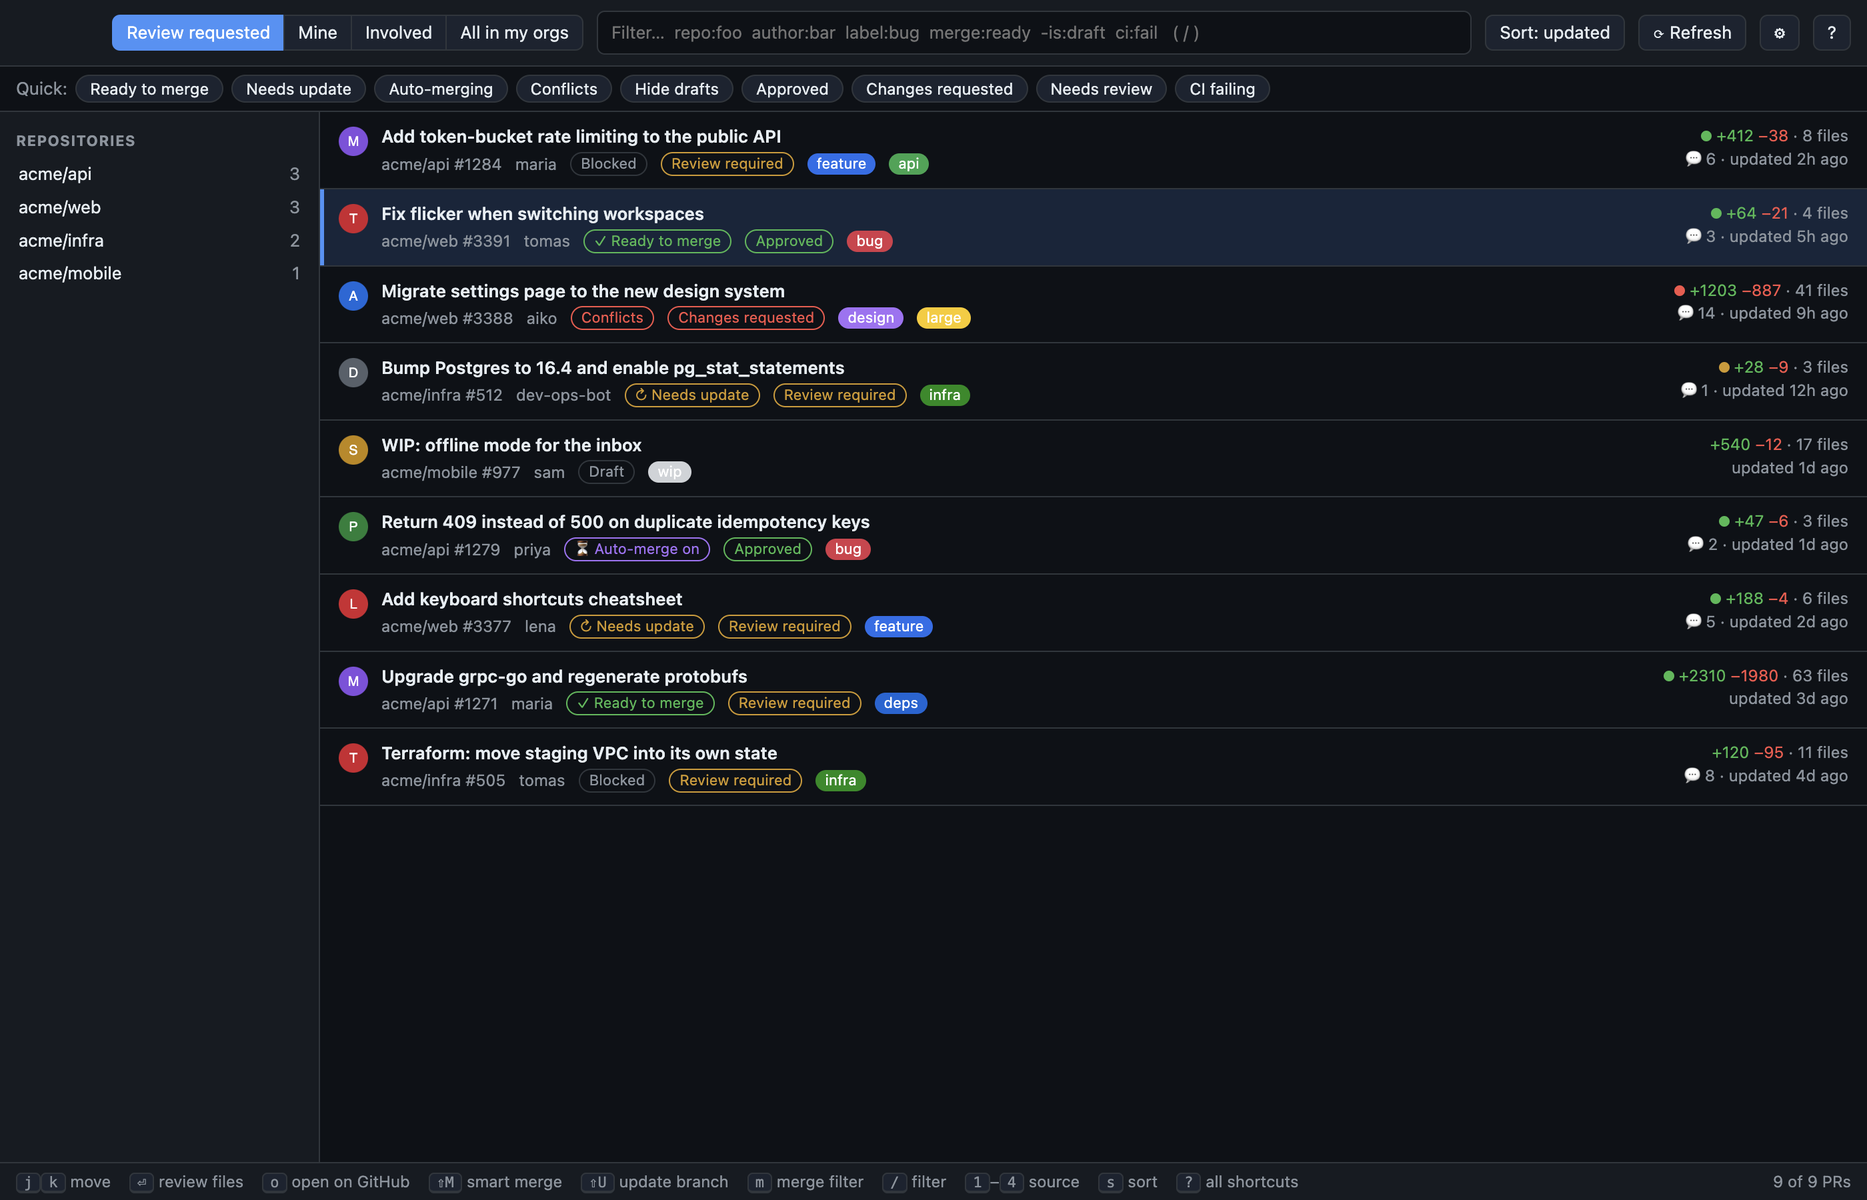
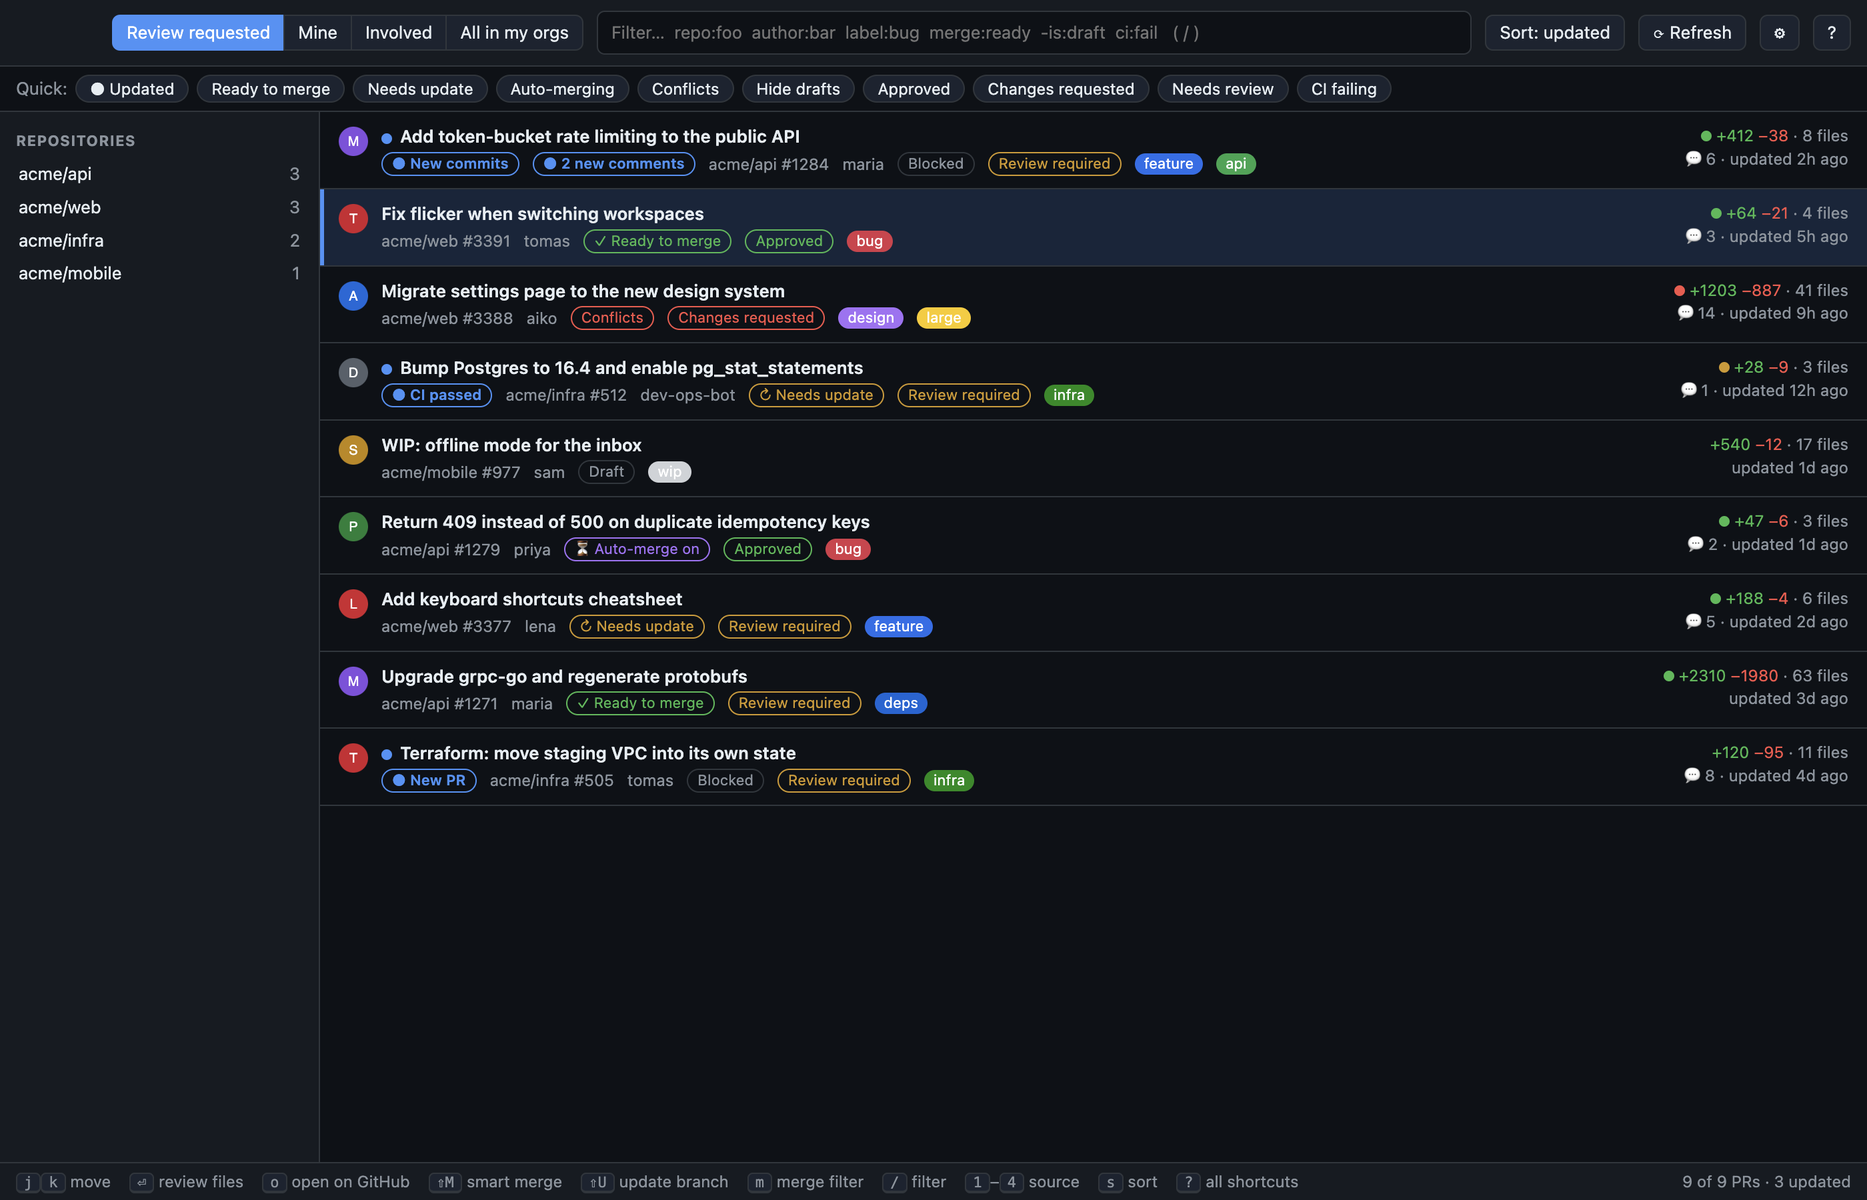
Background refresh, change markers and desktop notifications

diff --git a/src/app.js b/src/app.js
@@ -6,6 +6,7 @@ const lset = (k, v) => { try { localStorage.setItem('sp.' + k, JSON.stringify(v)
 if (native.platform === 'darwin') document.body.classList.add('mac');
 
 const S = {
+  loadSeq: 0,
   drawer: { open: false, tab: 'conv', sel: 0 },
   hideTests: ls('hideTests', true),
   token: null, view: 'login', prs: [], sel: 0, loading: false,
@@ -15,7 +16,7 @@ const S = {
 };
 const SOURCES = [['review', 'Review requested'], ['mine', 'Mine'], ['involved', 'Involved'], ['orgs', 'All in my orgs']];
 const SORTS = ['updated', 'created', 'size', 'repo'];
-const CHIPS = [['merge:ready', 'Ready to merge'], ['merge:behind', 'Needs update'], ['merge:auto', 'Auto-merging'], ['merge:conflict', 'Conflicts'], ['-is:draft', 'Hide drafts'], ['is:approved', 'Approved'], ['is:changes', 'Changes requested'], ['is:unreviewed', 'Needs review'], ['ci:fail', 'CI failing']];
+const CHIPS = [['is:updated', '● Updated'], ['merge:ready', 'Ready to merge'], ['merge:behind', 'Needs update'], ['merge:auto', 'Auto-merging'], ['merge:conflict', 'Conflicts'], ['-is:draft', 'Hide drafts'], ['is:approved', 'Approved'], ['is:changes', 'Changes requested'], ['is:unreviewed', 'Needs review'], ['ci:fail', 'CI failing']];
 
 /* ---------- helpers ---------- */
 let toastT;
@@ -46,7 +47,7 @@ async function rest(path) {
 }
 
 /* ---------- data: PR list ---------- */
-const PR_FIELDS = `id number title bodyText url isDraft mergeable mergeStateStatus autoMergeRequest { enabledAt } createdAt updatedAt additions deletions changedFiles reviewDecision
+const PR_FIELDS = `id number title bodyText url isDraft headRefOid mergeable mergeStateStatus autoMergeRequest { enabledAt } reviews { totalCount } reviewThreads { totalCount } createdAt updatedAt additions deletions changedFiles reviewDecision
   author { login avatarUrl(size: 44) } repository { nameWithOwner }
   labels(first: 5) { nodes { name color } } comments { totalCount }
   commits(last: 1) { nodes { commit { statusCheckRollup { state } } } }`;
@@ -70,15 +71,66 @@ async function queriesFor(source) {
   const d = await gql('{ viewer { login organizations(first:50){nodes{login}} } }');
   return [`${base} user:${d.viewer.login}`, ...d.viewer.organizations.nodes.map((o) => `${base} org:${o.login}`)];
 }
-async function loadPRs() {
-  if (S.token === 'demo') { S.prs = DEMO.prs; S.loading = false; return updateList(); }
-  S.loading = true; updateList();
+/* ---------- change tracking, background refresh, notifications ---------- */
+const pollCfg = () => ({ notify: true, secs: 60, ...ls('poll', {}) });
+const snap = (p) => ({ oid: p.headRefOid, act: p.comments.totalCount + (p.reviews?.totalCount || 0) + (p.reviewThreads?.totalCount || 0), rd: p.reviewDecision || '', ci: ci(p) || '', mk: mergeKind(p) || '' });
+// Compares each PR with what you last looked at (you "look" by opening it). Returns true when this source was only just baselined.
+function computeChanges(prs, source) {
+  const seen = ls('seen', {}), base = ls('baselined', []);
+  if (!base.includes(source)) { prs.forEach((p) => { seen[p.id] = snap(p); p._chg = []; }); lset('seen', seen); lset('baselined', [...base, source]); return true; }
+  for (const p of prs) {
+    const o = seen[p.id], n = snap(p), c = [];
+    if (!o) c.push('New PR');
+    else {
+      if (n.oid !== o.oid) c.push('New commits');
+      if (n.act > o.act) c.push(`${n.act - o.act} new comment${n.act - o.act > 1 ? 's' : ''}`);
+      if (n.rd !== o.rd && n.rd) c.push({ APPROVED: 'Approved', CHANGES_REQUESTED: 'Changes requested', REVIEW_REQUIRED: 'Review required' }[n.rd]);
+      if (n.ci !== o.ci && ['SUCCESS', 'FAILURE', 'ERROR'].includes(n.ci)) c.push(n.ci === 'SUCCESS' ? 'CI passed' : 'CI failed');
+      if (n.mk !== o.mk && n.mk === 'ready' && o.mk) c.push('Ready to merge');
+    }
+    p._chg = c;
+  }
+  return false;
+}
+function markSeen(prs) {
+  const seen = ls('seen', {}); prs.forEach((p) => { seen[p.id] = snap(p); p._chg = []; }); lset('seen', seen); updateBadge();
+}
+const notified = new Map(); // pr id -> signature we already told you about
+const sigOf = (p) => JSON.stringify([snap(p), p._chg]);
+function primeNotified(prs) { prs.forEach((p) => { if (p._chg?.length) notified.set(p.id, sigOf(p)); }); }
+function notifyChanges(prs) {
+  const fresh = prs.filter((p) => p._chg?.length && notified.get(p.id) !== sigOf(p));
+  fresh.forEach((p) => notified.set(p.id, sigOf(p)));
+  if (!fresh.length || !pollCfg().notify || document.hasFocus() || !window.Notification) return;
+  const go = (p) => () => { native.focusWindow(); if (p) openPR(p); };
+  const show = (title, body, p) => { try { const n = new Notification(title, { body }); n.onclick = go(p); } catch {} };
+  if (fresh.length <= 3) fresh.forEach((p) => show(`${p.repository.nameWithOwner} #${p.number}`, `${p.title}\n${p._chg.join(' · ')}`, p));
+  else show(`${fresh.length} pull requests updated`, fresh.slice(0, 4).map((p) => `#${p.number} ${p._chg[0]}`).join('\n'), null);
+}
+function updateBadge() {
+  const n = S.prs.filter((p) => p._chg?.length).length;
+  document.title = n ? `LGTM (${n})` : 'LGTM'; native.setBadge(n);
+}
+let pollT;
+function schedulePoll() {
+  clearTimeout(pollT);
+  pollT = setTimeout(async () => { if (S.token && S.token !== 'demo' && S.view !== 'login' && !S.loading && !merging) await loadPRs(true); schedulePoll(); }, Math.max(15, pollCfg().secs) * 1000);
+}
+addEventListener('focus', () => { if (S.token && S.token !== 'demo' && S.view !== 'login' && !S.loading && Date.now() - (S.lastLoad || 0) > 20000) loadPRs(true); });
+
+async function loadPRs(silent) {
+  if (S.token === 'demo') { S.prs = DEMO.prs; S.loading = false; updateBadge(); return updateList(); }
+  const mine = ++S.loadSeq, src = S.source;
+  if (!silent) { S.loading = true; updateList(); }
   try {
-    const qs = await queriesFor(S.source);
-    const all = (await Promise.all(qs.map(searchPRs))).flat();
-    S.prs = [...new Map(all.map((p) => [p.id, p])).values()];
-  } catch (e) { toast('Load failed: ' + e.message); }
-  S.loading = false; updateList();
+    const qs = await queriesFor(src);
+    const prs = [...new Map((await Promise.all(qs.map(searchPRs))).flat().map((p) => [p.id, p])).values()];
+    if (mine !== S.loadSeq) return;
+    const baseline = computeChanges(prs, src);
+    S.keepId = S.shown[S.sel]?.id; S.prs = prs; S.lastLoad = Date.now();
+    if (silent && !baseline) notifyChanges(prs); else primeNotified(prs);
+  } catch (e) { if (!silent) toast('Load failed: ' + e.message); }
+  finally { if (mine === S.loadSeq) { S.loading = false; updateList(); updateBadge(); } }
 }
 
 /* ---------- list filtering ---------- */
@@ -109,6 +161,7 @@ function matches(p, terms) {
     else if (key === 'author') ok = (p.author?.login || '').toLowerCase().includes(val);
     else if (key === 'label') ok = p.labels.nodes.some((l) => l.name.toLowerCase().includes(val));
     else if (key === 'ci') ok = { fail: ['FAILURE', 'ERROR'], pass: ['SUCCESS'], pending: ['PENDING', 'EXPECTED'] }[val]?.includes(ci(p)) ?? false;
+    else if (key === 'is' && val === 'updated') ok = !!p._chg?.length;
     else if (key === 'merge') ok = mergeKind(p) === val;
     else if (key === 'is') ok = { draft: p.isDraft, ready: !p.isDraft, approved: p.reviewDecision === 'APPROVED', changes: p.reviewDecision === 'CHANGES_REQUESTED', unreviewed: p.reviewDecision === 'REVIEW_REQUIRED' || !p.reviewDecision }[val] ?? false;
     else ok = hay.includes(val);
@@ -165,6 +218,7 @@ function updateList() {
   if (S.view !== 'list' || !$('#prs')) return;
   const terms = parseQuery(S.q);
   S.shown = S.prs.filter((p) => matches(p, terms)).sort(SORT_FN[S.sort]);
+  if (S.keepId) { const i = S.shown.findIndex((p) => p.id === S.keepId); if (i >= 0) S.sel = i; S.keepId = null; }
   S.sel = Math.max(0, Math.min(S.sel, S.shown.length - 1));
   document.querySelectorAll('[data-src]').forEach((b) => b.classList.toggle('on', b.dataset.src === S.source));
   $('#sortb').textContent = 'Sort: ' + S.sort;
@@ -179,7 +233,8 @@ function updateList() {
   if (S.loading && !S.prs.length) main.innerHTML = '<div class="spin">Loading pull requests…</div>';
   else if (!S.shown.length) main.innerHTML = `<div class="empty">${S.prs.length ? 'No PRs match this filter.' : 'No open PRs here 🎉'}</div>`;
   else main.innerHTML = S.shown.map(prRow).join('');
-  $('#count').textContent = `${S.shown.length} of ${S.prs.length} PRs${S.loading ? ' · refreshing…' : ''}`;
+  const nUpd = S.prs.filter((p) => p._chg?.length).length;
+  $('#count').textContent = `${S.shown.length} of ${S.prs.length} PRs${nUpd ? ` · ${nUpd} updated` : ''}${S.loading ? ' · refreshing…' : ''}`;
   main.querySelector('.sel')?.scrollIntoView({ block: 'nearest' });
 }
 function prRow(p, i) {
@@ -187,8 +242,8 @@ function prRow(p, i) {
   const st = ci(p); const dot = st === 'SUCCESS' ? 'ok' : st === 'FAILURE' || st === 'ERROR' ? 'bad' : st ? 'pend' : '';
   return `<div class="pr ${i === S.sel ? 'sel' : ''}" data-pr="${i}">
     <img src="${esc(p.author?.avatarUrl || '')}" alt="">
-    <div><div><span class="t">${esc(p.title)}</span></div>
-      <div class="meta"><span>${esc(p.repository.nameWithOwner)} #${p.number}</span><span>${esc(p.author?.login || 'ghost')}</span>
+    <div><div>${p._chg?.length ? '<span class="ud"></span>' : ''}<span class="t">${esc(p.title)}</span></div>
+      <div class="meta">${(p._chg || []).map((c) => `<span class="badge b-new">● ${esc(c)}</span>`).join('')}<span>${esc(p.repository.nameWithOwner)} #${p.number}</span><span>${esc(p.author?.login || 'ghost')}</span>
         ${p.isDraft ? '<span class="badge b-draft">Draft</span>' : ''}${MERGE_BADGE[mergeKind(p)] ? `<span class="badge ${MERGE_BADGE[mergeKind(p)][0]}">${MERGE_BADGE[mergeKind(p)][1]}</span>` : ''}${rd ? `<span class="badge ${rd[0]}">${rd[1]}</span>` : ''}
         ${p.labels.nodes.map((l) => `<span class="label" style="background:#${esc(l.color)}">${esc(l.name)}</span>`).join('')}</div></div>
     <div class="right"><div>${dot ? `<span class="dot ${dot}"></span> ` : ''}<span class="add">+${p.additions}</span> <span class="del">−${p.deletions}</span> · ${p.changedFiles} files</div>
@@ -302,6 +357,7 @@ function hl(code, lang) {
 /* ---------- PR detail ---------- */
 async function openPR(pr) {
   if (!pr) return;
+  markSeen([pr]);
   S.view = 'pr';
   S.d = { pr, files: [], cur: null, loading: true, filter: ls('ff', ''), hideViewed: false, prId: pr.id, hist: [] };
   closeDrawer(); mountPR(); updateFiles();
@@ -769,14 +825,16 @@ function openSettings() {
     <label id="st-row">Terminal for vim / Neovim / Helix<select id="st">${terms.map(([k, n]) => `<option value="${k}" ${c.terminal === k ? 'selected' : ''}>${n}</option>`).join('')}</select></label>
     <label id="sc-row">Custom command <span class="muted">— use {file} {line} {dir}</span><input id="sc" value="${esc(c.custom)}" placeholder="e.g. emacsclient -n +{line} {file}" spellcheck="false"></label>
     <label>Where your repos live <span class="muted">— comma separated, searched 3 levels deep for a clone of the PR's repo</span><input id="sr" value="${esc(c.roots)}" spellcheck="false"></label>
+    <label>Refresh PR list <select id="sp">${[[30, 'every 30 seconds'], [60, 'every minute'], [120, 'every 2 minutes'], [300, 'every 5 minutes']].map(([v, n]) => `<option value="${v}" ${pollCfg().secs === v ? 'selected' : ''}>${n}</option>`).join('')}</select></label>
+    <label style="flex-direction:row;align-items:center;gap:8px"><input type="checkbox" id="sn" ${pollCfg().notify ? 'checked' : ''}> Desktop notifications when a PR changes while LGTM is in the background</label>
     <div class="muted" style="font-size:12px">Files open at the first changed line. If your checkout isn't on the PR's commit, a separate git worktree of the PR is created for you (your working copy is never touched). With no local clone, a read-only snapshot of the file opens instead.</div>
     <div style="display:flex;gap:8px;justify-content:flex-end"><button id="s-cancel">Cancel <kbd>Esc</kbd></button><button id="s-save" class="on">Save</button></div></div>`;
   const sync = () => { const v = $('#se').value; $('#st-row').hidden = !TUI_EDITORS.includes(v); $('#sc-row').hidden = v !== 'custom'; };
   $('#se').onchange = sync; sync();
   $('#s-cancel').onclick = closeSettings;
   $('#s-save').onclick = () => {
-    const editor = $('#se').value; if (!editor) return toast('Choose an editor first');
-    lset('editor', { editor, terminal: $('#st').value, custom: $('#sc').value, roots: $('#sr').value }); closeSettings(); toast('Settings saved');
+    lset('editor', { editor: $('#se').value, terminal: $('#st').value, custom: $('#sc').value, roots: $('#sr').value });
+    lset('poll', { secs: +$('#sp').value, notify: $('#sn').checked }); schedulePoll(); closeSettings(); toast('Settings saved');
   };
   el.onmousedown = (e) => { if (e.target === el) closeSettings(); };
   $('#se').focus();
@@ -819,7 +877,7 @@ function toggleHelp(force) {
   if (!show) return;
   const R = (k, d) => `<div class="r"><span>${d}</span><span>${k.map((x) => `<kbd>${x}</kbd>`).join(' ')}</span></div>`;
   h.innerHTML = `<div class="box"><h3>Keyboard shortcuts</h3>
-   <div><h4>PR list</h4>${R(['j', '↓'], 'Next PR')}${R(['k', '↑'], 'Previous PR')}${R(['⏎', 'l'], 'Review files')}${R(['o'], 'Open on GitHub')}${R(['⇧M'], 'Smart merge')}${R(['⇧U'], 'Update branch (when behind)')}${R(['m'], 'Cycle merge filter: ready / needs update / auto / conflicts')}${R(['⇧X'], 'Close PR (no merge)')}${R(['/', '⌘F'], 'Focus filter')}${R(['⌘K / Ctrl+K'], 'Search PRs by title / description')}${R(['1', '–', '4'], 'Switch source')}${R(['s'], 'Cycle sort')}${R(['r'], 'Refresh')}${R(['d'], 'Toggle hide drafts')}${R(['x'], 'Clear filter')}</div>
+   <div><h4>PR list</h4>${R(['j', '↓'], 'Next PR')}${R(['k', '↑'], 'Previous PR')}${R(['⏎', 'l'], 'Review files')}${R(['o'], 'Open on GitHub')}${R(['⇧M'], 'Smart merge')}${R(['⇧U'], 'Update branch (when behind)')}${R(['m'], 'Cycle merge filter: ready / needs update / auto / conflicts')}${R(['⇧X'], 'Close PR (no merge)')}${R(['/', '⌘F'], 'Focus filter')}${R(['⌘K / Ctrl+K'], 'Search PRs by title / description')}${R(['1', '–', '4'], 'Switch source')}${R(['s'], 'Cycle sort')}${R(['r'], 'Refresh now (the list also refreshes itself)')}${R(['⇧Z'], 'Mark all updates as seen')}${R(['d'], 'Toggle hide drafts')}${R(['x'], 'Clear filter')}</div>
    <div><h4>File review</h4>${R(['j', '↓'], 'Next file')}${R(['k', '↑'], 'Previous file')}${R(['n', 'p'], 'Next / prev unviewed')}${R(['Space', '⏎', 'v'], 'Toggle viewed (+ next unviewed)')}${R(['⇧J', '⇧K'], 'Scroll diff a bit')}${R(['Ctrl+D', 'Ctrl+U'], 'Half page down / up')}${R(['u'], 'Undo last viewed change')}${R(['e'], 'Expand / collapse whole file')}${R(['⇧E'], 'Open file in your editor (vim / nvim / VS Code …)')}${R(['c'], 'Conversation (comments & reviews)')}${R([','], 'Settings (editor, terminal, repo folders)')}${R(['l'], 'Links found in the conversation')}${R(['g', 'G'], 'Top / bottom of diff')}${R(['h'], 'Hide viewed files')}${R(['t'], 'Hide / show test files')}${R(['⇧V'], 'Mark all shown as viewed')}${R(['/'], 'Filter files')}${R(['⌘F / Ctrl+F'], 'Find in PR (Enter/⇧Enter next/prev, Tab scope)')}${R(['Ctrl+G'], 'Next find match')}${R(['[', ']'], 'Prev / next PR')}${R(['⇧M'], 'Smart merge')}${R(['⇧U'], 'Update branch (when behind)')}${R(['m'], 'Cycle merge filter: ready / needs update / auto / conflicts')}${R(['⇧X'], 'Close PR (no merge)')}${R(['o'], 'Open PR files on GitHub')}${R(['Esc', 'b'], 'Back to list')}</div>
    <div style="grid-column:1/-1;color:var(--muted);margin-top:8px">File filter: <code>*.ts</code> globs, <code>src/</code> folders, <code>!*.lock</code> excludes, space/comma separated. Viewed state syncs with GitHub.</div></div>`;
 }
@@ -883,6 +941,7 @@ addEventListener('keydown', (e) => {
     else if (k >= '1' && k <= '4') setSource(SOURCES[+k - 1][0]);
     else if (k === 's') cycleSort();
     else if (k === 'r') loadPRs();
+    else if (k === 'Z') { markSeen(S.prs); updateList(); toast('Marked everything as seen'); }
     else if (k === 'd') toggleToken('-is:draft');
     else if (k === 'x') setQuery('');
     else return;
@@ -934,7 +993,7 @@ function render() {
     $('#tok').focus();
   }
 }
-function start() { S.view = 'list'; mountList(); updateList(); loadPRs(); }
+function start() { S.view = 'list'; mountList(); updateList(); loadPRs(); if (S.token !== 'demo') schedulePoll(); }
 $('#app').addEventListener('click', (e) => { listClick(e); prClick(e); if (e.target.closest('button')) e.target.closest('button').blur(); });
 (async () => {
   if (await native.isDemo()) { S.token = 'demo'; return start(); }

diff --git a/src/demo.js b/src/demo.js
@@ -22,6 +22,7 @@ const DEMO = (() => {
     mk(8, 'acme/api', 1271, 'Upgrade grpc-go and regenerate protobufs', 'Mechanical upgrade, mostly generated files.', 'maria', '#8250df', 74, 2310, 1980, 63, 'REVIEW_REQUIRED', 'SUCCESS', [lab('deps', '0366d6')], false, 0, 'CLEAN'),
     mk(9, 'acme/infra', 505, 'Terraform: move staging VPC into its own state', 'Needs a careful `terraform state mv`.', 'tomas', '#cf222e', 96, 120, 95, 11, 'REVIEW_REQUIRED', null, [lab('infra', '0e8a16')], false, 8),
   ];
+  prs[0]._chg = ['New commits', '2 new comments']; prs[3]._chg = ['CI passed']; prs[8]._chg = ['New PR'];
   const F = (filename, status, patch, extra = {}) => {
     const l = patch.split('\n'); return { filename, status, patch, additions: l.filter((x) => x[0] === '+').length, deletions: l.filter((x) => x[0] === '-').length, changes: l.length, ...extra };
   };

diff --git a/src/main.js b/src/main.js
@@ -37,6 +37,8 @@ ipcMain.handle('token:set', (_e, token) => {
   fs.writeFileSync(tokenFile(), data, { mode: 0o600 });
 });
 ipcMain.handle('editor:open', (_e, o) => openInEditor(o, app.getPath('userData')));
+ipcMain.handle('focus', () => { const w = BrowserWindow.getAllWindows()[0]; if (!w) return; if (w.isMinimized()) w.restore(); w.show(); w.focus(); });
+ipcMain.handle('badge', (_e, n) => { try { app.setBadgeCount(Math.max(0, n | 0)); } catch {} });
 ipcMain.handle('demo', () => !!process.env.LGTM_DEMO);
 ipcMain.handle('token:clear', () => { try { fs.unlinkSync(tokenFile()); } catch {} });
 ipcMain.handle('open:external', (_e, url) => {

diff --git a/src/style.css b/src/style.css
@@ -137,3 +137,7 @@ body.mac .top { padding-left:84px; }
 #settings label { display:flex; flex-direction:column; gap:4px; font-weight:600; } #settings label[hidden] { display:none; }
 #settings label .muted { font-weight:400; font-size:12px; }
 #settings select { background:var(--bg); border:1px solid var(--border); border-radius:6px; padding:6px 8px; }
+
+.b-new { color:var(--accent); border-color:var(--accent); font-weight:600; }
+.ud { display:inline-block; width:8px; height:8px; border-radius:50%; background:var(--accent); margin-right:6px; vertical-align:middle; }
+#settings label input[type=checkbox] { width:auto; }

diff --git a/src/preload.js b/src/preload.js
@@ -5,6 +5,8 @@ contextBridge.exposeInMainWorld('native', {
   clearToken: () => ipcRenderer.invoke('token:clear'),
   openExternal: (u) => ipcRenderer.invoke('open:external', u),
   openEditor: (o) => ipcRenderer.invoke('editor:open', o),
+  focusWindow: () => ipcRenderer.invoke('focus'),
+  setBadge: (n) => ipcRenderer.invoke('badge', n),
   isDemo: () => ipcRenderer.invoke('demo'),
   platform: process.platform,
 });

diff --git a/README.md b/README.md
@@ -14,6 +14,7 @@ GitHub shows you PRs one repo at a time. LGTM shows them **all at once** — acr
 - **One inbox for everything.** Review requested, yours, involving you, or everything in your orgs. Switch with `1`–`4`.
 - **Filter like a power user.** Type `repo:api author:maria label:bug -is:draft ci:fail`, or tap a quick chip. The repo sidebar shows live counts.
 - **See what matters at a glance.** Review status, CI, drafts, labels, size and age on every row.
+- **Stays fresh on its own.** The list refreshes in the background (every minute by default). PRs with news get a blue dot and say what changed: *New commits*, *2 new comments*, *CI passed*, *Approved*, *New PR*… Opening a PR marks it seen; `Shift+Z` marks everything seen. Optional desktop notifications ping you when a PR changes while LGTM is in the background.
 - **Know where each PR is on its way to merged.** Every row says *Ready to merge*, *Needs update*, *Auto-merge on*, *Conflicts* or *Blocked*. Press `m` to cycle through them, `Shift+M` to smart-merge, `Shift+U` to update a branch that's behind.
 
 ## Review one file at a time
